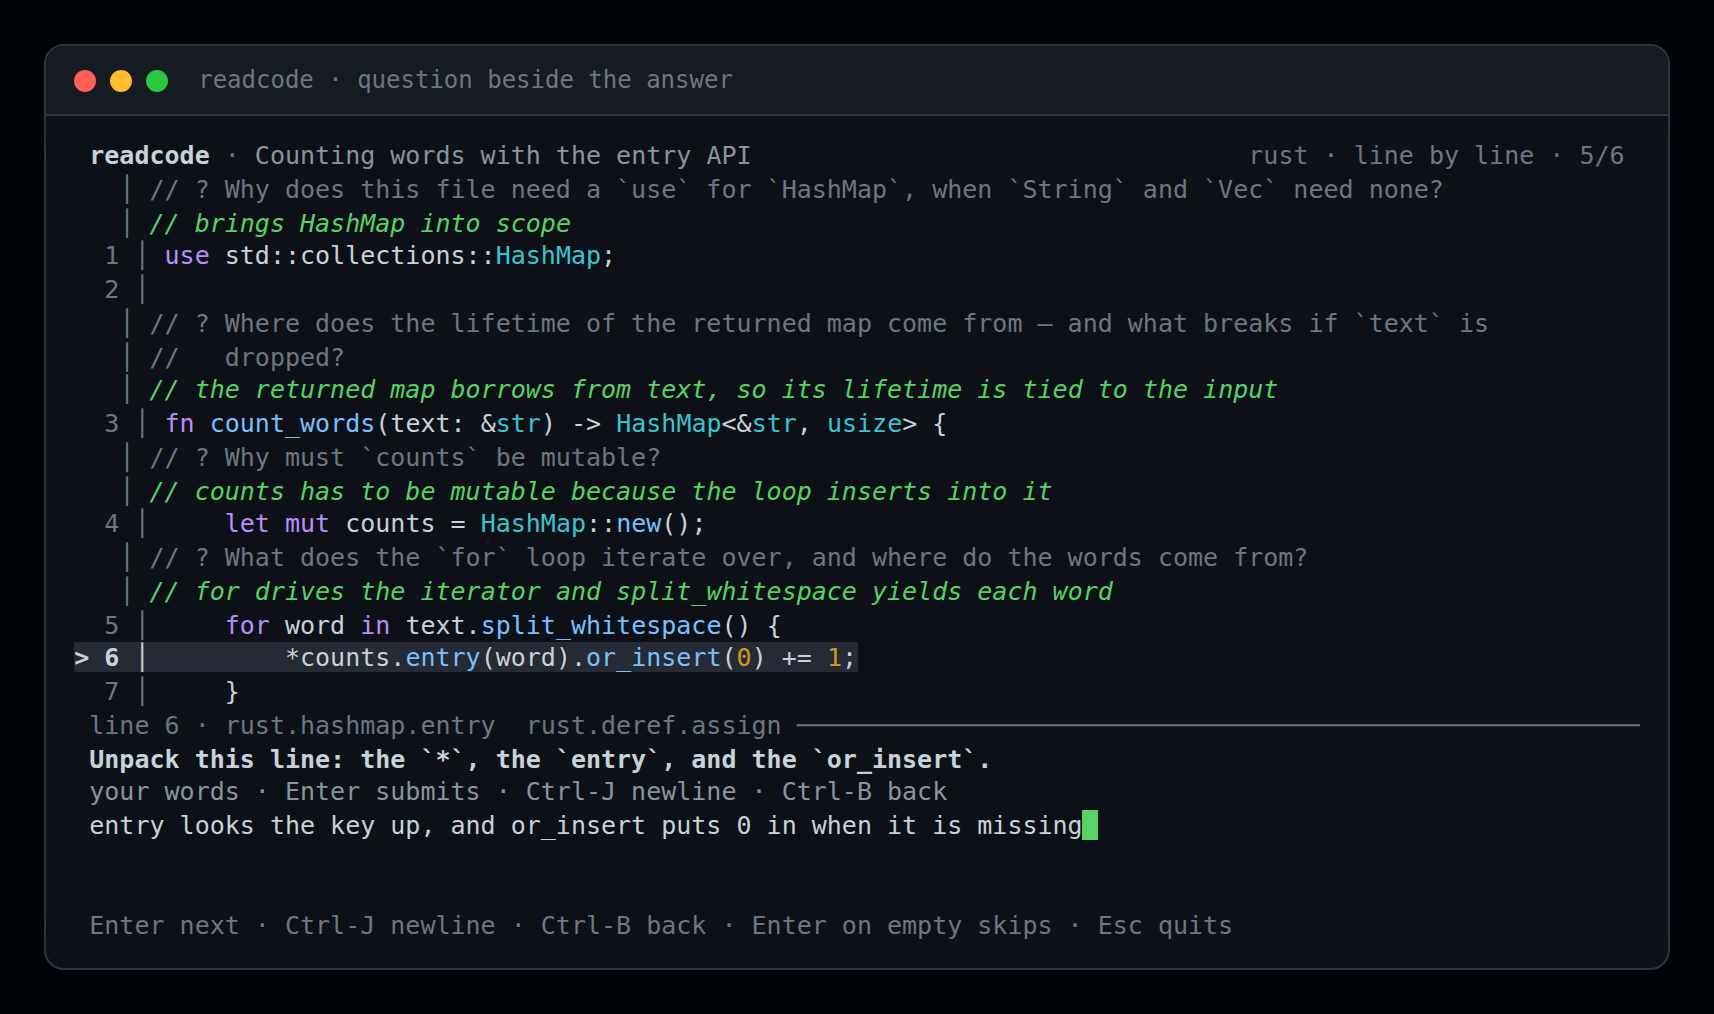
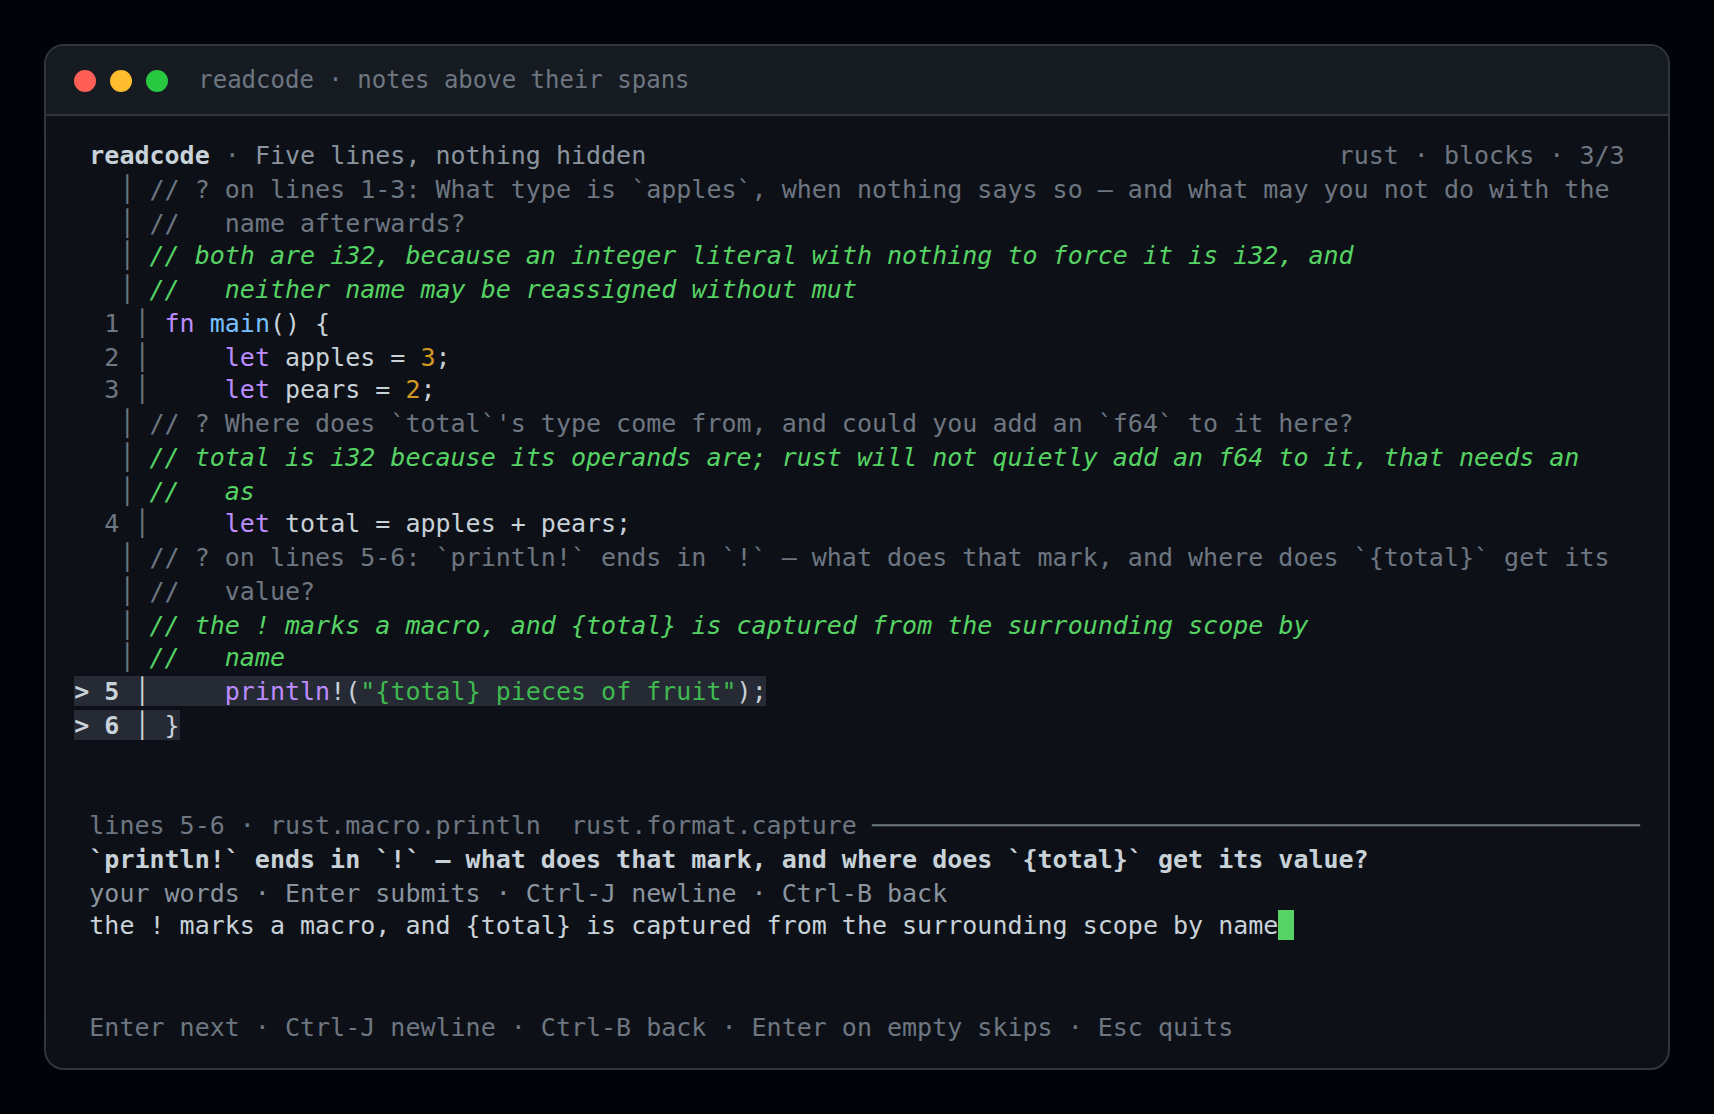
fix: put multi-line notes above their block, not after it
A note about several lines was drawn under the block's last line, so a comment
about lines 1-2 appeared between the end of the struct and the method below it,
where it reads as a remark on the closing brace. Every note now sits above the
span it covers, which is where a comment on code belongs; the span label
("on lines 1-2:") keeps it from being mistaken for a remark on the first line
alone.

diff --git a/src/tui/draw.rs b/src/tui/draw.rs
@@ -218,13 +218,17 @@ fn draw_code(frame: &mut Frame, app: &App, area: Rect, follow: bool) {
     for (index, _line) in lines.iter().enumerate() {
         let number = index + 1;
 
-        // A note about this line alone goes above it, where a comment about a
-        // line belongs — question first, so the answer has something to be an
-        // answer to.
-        if let Some(note) = notes.get(&number)
-            && note.end == number
-        {
-            push_note(&mut rows, gutter, text_width, note, None);
+        // A note goes above the span it is about — one line or five — because a
+        // comment above the code is how you annotate a file. A note about several
+        // lines is labelled with its span so it cannot be mistaken for a remark
+        // on the first line alone.
+        if let Some(note) = notes.get(&number) {
+            let label = if note.end > number {
+                Some(format!("on lines {number}-{}: ", note.end))
+            } else {
+                None
+            };
+            push_note(&mut rows, gutter, text_width, note, label.as_deref());
         }
 
         if focus.is_some_and(|(start, _)| number == start) {
@@ -258,15 +262,6 @@ fn draw_code(frame: &mut Frame, app: &App, area: Rect, follow: bool) {
         }
         rows.push(Line::from(spans));
 
-        // A note about a whole block goes after the block's last line, labelled
-        // with the span, so it never reads as a comment on its first line.
-        for (start, note) in notes
-            .iter()
-            .filter(|(start, note)| note.end == number && **start < note.end)
-        {
-            let label = format!("on lines {start}-{number}: ");
-            push_note(&mut rows, gutter, text_width, note, Some(&label));
-        }
     }
 
     let height = area.height as usize;
@@ -953,7 +948,7 @@ mod tests {
     }
 
     #[test]
-    fn a_block_note_sits_after_the_block_and_says_which_lines_it_covers() {
+    fn a_block_note_sits_above_the_block_and_says_which_lines_it_covers() {
         let corpus = Corpus::builtin().unwrap();
         let snippet = corpus.find("rust-004").unwrap();
         let prompts = snippet.prompts(crate::snippet::Asks::Blocks);
@@ -976,10 +971,12 @@ mod tests {
             screen.contains("// the counter starts at zero"),
             "the answer follows its question:\n{screen}"
         );
+        // Above the first line of the span, like a comment on it — not parked
+        // after the closing brace where it reads as a remark on the last line.
         let block_start = screen.find(" 1 │").expect("line 1");
+        assert!(note < block_start, "the note precedes the block:\n{screen}");
         let block_end = screen.find(" 5 │").expect("line 5");
-        assert!(note > block_end, "the note follows the block:\n{screen}");
-        assert!(note > block_start, "{screen}");
+        assert!(note < block_end, "{screen}");
     }
 
     #[test]
